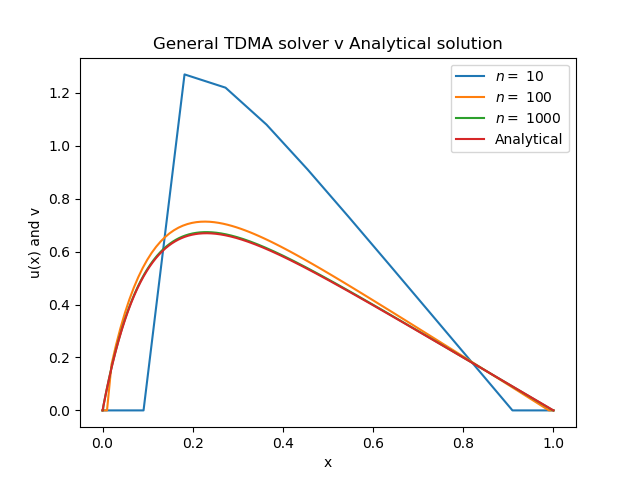
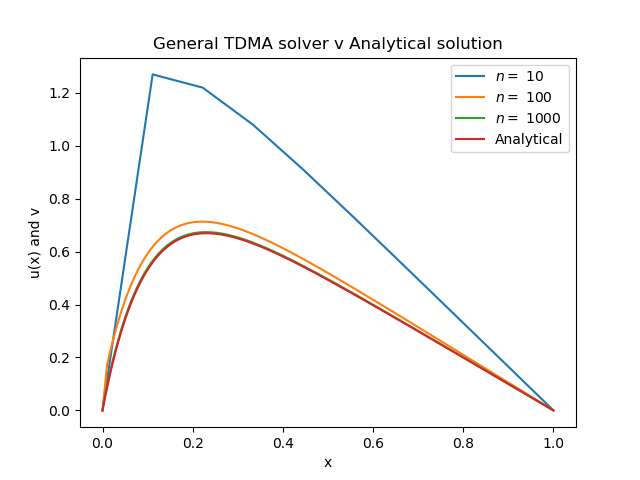
Fixed boundaries in general and special

diff --git a/Code/Python/special_tdma_function.py b/Code/Python/special_tdma_function.py
@@ -7,7 +7,6 @@ def poisson_tdma(d,v):
 
     c_tilde=np.zeros(n)
     d_tilde=np.zeros(n)
-    v_temp=np.zeros(n)   #this represents the vector v, the solution of the linear set of equations Av=d
 
     c_tilde[0]=-0.5
     d_tilde[0]=0.5*d[0]
@@ -18,16 +17,14 @@ def poisson_tdma(d,v):
         c_tilde[i]=-m
         d_tilde[i]=(d[i]+d_tilde[i-1])*m
 
-    v_temp[n-1]=d_tilde[n-1]
+    v[n-1]=d_tilde[n-1]
 
     for i in reversed(range(1,n-1)):    #BACKWARD substitution
-        v_temp[i]=d_tilde[i]-c_tilde[i]*v_temp[i+1]
+        v[i]=d_tilde[i]-c_tilde[i]*v[i+1]
 
     time_spent=time.clock()-start_time
 
     print("Special TDMA, time spent on n = %g is %g seconds" % (n,time_spent))
-
-    v[1:n+1]=v_temp  #inserting the solution of the linear eq. into the final solution, with boundary conditions
 
 n=[int(1e2),int(1e3),int(1e4),int(1e5),int(1e6)]
 
@@ -35,8 +32,8 @@ for i in n:     #solving for different n's
     h=1/(i+1)
     d=np.linspace(0,1,i)
     d=h**2*100*np.exp(-10*d)
-    v=np.zeros(i+2)
-    x=np.linspace(0,1,i+2)
+    v=np.zeros(i)
+    x=np.linspace(0,1,i)
     v[1]=55
 
     poisson_tdma(d,v)
@@ -47,3 +44,4 @@ actual_v=1-(1-np.exp(-10))*x-np.exp(-10*x)  #the analytically found solution
 plt.plot(x,actual_v,label="Analytical")
 
 plt.legend()
+plt.show()

diff --git a/Code/Python/general_tdma_function.py b/Code/Python/general_tdma_function.py
@@ -7,7 +7,7 @@ def tdma(a,b,c,d,v):
 
     c_tilde=np.zeros(n)
     d_tilde=np.zeros(n)
-    v_temp=np.zeros(n)   #this represents the vector v, the solution of the linear set of equations Av=d
+    #v_temp=np.zeros(n)   #this represents the vector v, the solution of the linear set of equations Av=d
 
     c_tilde[0]=c[0]/b[0]
     d_tilde[0]=d[0]/b[0]
@@ -17,12 +17,12 @@ def tdma(a,b,c,d,v):
         c_tilde[i]=c[i]*m
         d_tilde[i]=(d[i]-a[i-1]*d_tilde[i-1])*m
 
-    v_temp[n-1]=d_tilde[n-1]
+    v[n-1]=d_tilde[n-1]
 
     for i in reversed(range(1,n-1)):    #BACKWARD substitution
-        v_temp[i]=d_tilde[i]-c_tilde[i]*v_temp[i+1]
+        v[i]=d_tilde[i]-c_tilde[i]*v[i+1]
 
-    v[1:n+1]=v_temp  #inserting the solution of the linear eq. into the final solution, with boundary conditions
+    #v[1:n+1]=v_temp  #inserting the solution of the linear eq. into the final solution, with boundary conditions
 
 n=[10,100,1000]
 
@@ -36,8 +36,8 @@ for i in n:     #solving for different n's
     c[:]=-1
     d=np.linspace(0,1,i)
     d=h**2*100*np.exp(-10*d)
-    v=np.zeros(i+2)
-    x=np.linspace(0,1,i+2)
+    v=np.zeros(i)
+    x=np.linspace(0,1,i)
     v[1]=55
 
     tdma(a,b,c,d,v)
